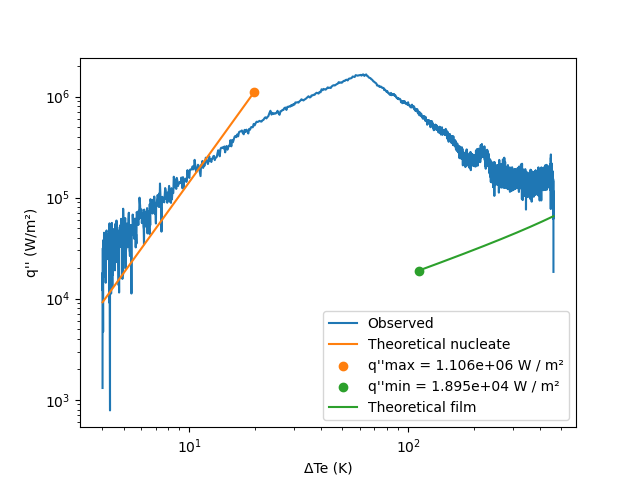
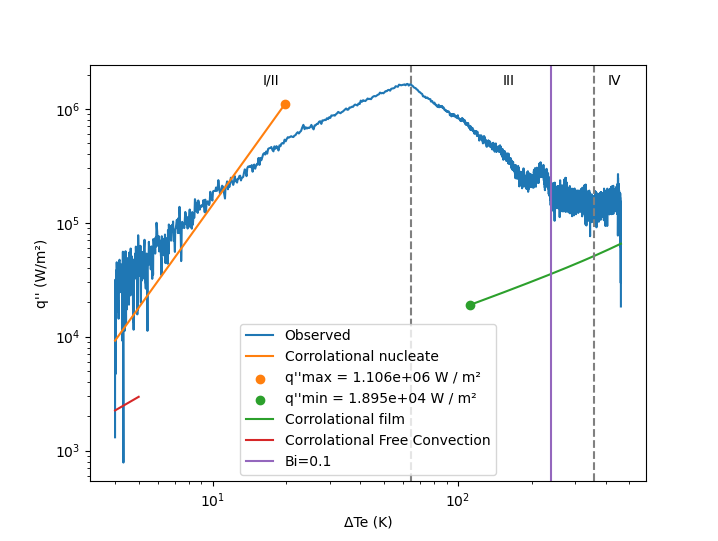
updated figures; discussion, conclusion

diff --git a/lr1/main.tex b/lr1/main.tex
@@ -22,6 +22,7 @@ T.A.: Sohaib Malik
 
 \usepackage{placeins} % FloatBarrier
 \usepackage{amsmath} % align
+\usepackage{amssymb}
 \usepackage{xcolor}
 \usepackage[colorlinks=true, citecolor=violet, linkcolor=violet, urlcolor=violet]{hyperref}
 \usepackage{enumitem}
@@ -187,7 +188,7 @@ Of the behavioral regions in \figref{boil_curve}, free convection, nucleate boil
 \newcommand{\Te}{\Delta T_e}
 % Free convection
 \subsubsection{Free Convection}
-For low temperatures (\~$\Te \lesssim 5$~K), while boiling may occur, convection into the fluid remains dominated by buoyancy forces, and can be modeled as free convection.
+For low temperatures ($\Te \lesssim 5$~K), while boiling may occur, convection into the fluid remains dominated by buoyancy forces, and can be modeled as free convection.
 For a sphere submerged in water, this takes the form\cite{bergman_fundamentals_2017}:
 \begin{equation}
     \begin{gathered}
@@ -266,6 +267,8 @@ Using a digitizer and a laptop, the temperature was measured at precise interval
 \FloatBarrier
 The sphere was successfully superheated and dropped into the water at an initial temperature of 562\degC (for an initial $\Delta T_e=462~K$), and time and temperature data recorded every 0.02~s for 114.78~s, reaching a final temperature of 104.01\degC.
 Using Eq.~\ref{eq:q_experimental} and necessary assumptions, we calculated the heat flux $q''_s$ across the sphere surface for each timestamp, and plot against corresponding $\Delta T_e$ in \figref{exp_curve}, comparing to correlations found using Eqs.~\ref{eq:free_boil} through \ref{eq:film_boil}.
+We identify regions I, II, III, and IV on the plot, which we believe correspond to free convection, nucleate boiling, transitional boiling, and film boiling, grouping expected regions I and II as while both may be observed a clear distinction between the two was not obvious.\\
+
 We then evaluated $h$ and $Bi$ using Eqs.~\ref{eq:h_experimental} and \ref{eq:biot_sphere} for the sphere, and plot $Bi$ using experimental data in \figref{biot_curve}
 % Pool boiling curve
 \defplot{exp_curve}{The boiling curve found using experimental data with the lumped capacitance approximation. At temperatures higher than 240~K (labeled ``$Bi=0.1$''), the Biot number of the system was found to be self-consistently less than 0.1, as required in the lumped capacitance approximation.}
@@ -273,18 +276,28 @@ We then evaluated $h$ and $Bi$ using Eqs.~\ref{eq:h_experimental} and \ref{eq:bi
 % "Using the equations, we find this data"
 
 \clearpage
+\FloatBarrier
 \section{Discussion}\label{sec:disc}
-Qualitatively, the boiling curve derived in \figref{exp_curve} shares similarity to existing models like in \figref{boil_curve}, featuring a rapid increase in $q''_s$ with $\Te$ at low $\Te$, until a maximum $q''_s\approx10^6 W/m^2$ beyond which higher temperatures correlate to lower $q''_s$.
-However, the models of Eq.~\ref{eq:free_boil} through \ref{eq:film_boil}, despite featuring similar shapes (and plotted on the same \figref{exp_curve}), do not line up with our interpretation of experimental data.\\
+Qualitatively, the boiling curve derived in \figref{exp_curve} shares similarity to existing models like in \figref{boil_curve}, featuring a rapid increase in $q''_s$ with $\Te$ at low $\Te$, until a maximum $q''_s\approx10^6 W/m^2$ (comparable to the Zuber models in Eq.~\ref{eq:qmax}) beyond which higher temperatures correlate to lower $q''_s$ (Regions I and II, corresponding to free convection and nucleate boiling, are grouped together as we do not observe a clear distinction between the two as expected from \figref{boil_curve}).
+However, the models of Eq.~\ref{eq:free_boil} through \ref{eq:film_boil}, despite featuring similar shapes (and plotted on the same \figref{exp_curve}), do not line up with our interpretation of experimental data, notably predicting behavior over very different ranges of temperature (for both nucleate boiling and film boiling).\\
 
 When validating the assumptions of our model, we encounter a plausible explanation for this discrepancy: the sphere is not conductive enough to assume lumped capacitance over the full range of observations.
 In \figref{biot_curve}, we compare the Biot number under the assumptions of the model to the maximum $Bi<0.1$ permitting a lumped capacitance approximation, and find that our assumption of lumped capacitance is only self-consistent for the most extreme temperatures, in excess of $\Te\gtrsim 240~K$.
 This inaccuracy very plausibly explains the discrepancies: While the temperature corresponding to $q''_s$ across different regions should be evaluated at the surface, if the Biot number is too high then our thermocouple measurements towards the center of the sphere do not accurately reflect the surface temperature $T_s$ to calculate $\Te=T_s-T_{sat}$.
-The thermocouple temperature would instead be substantially higher than $T_s$, potentially explaining, for example, the higher temperature of $q''_{max}$ seen in \figref{exp_curve}, compared with that found using Eq.~\ref{eq:nucl_boil}.\\
+The thermocouple temperature would instead be substantially higher than $T_s$, potentially explaining, for example, the higher temperatures of $q''_{max}$ and $\qmin$ seen in \figref{exp_curve}, compared with those found using Eqs.~\ref{eq:qmax} and \ref{eq:qmin}.\\
 
-Additionally, while there is a plateau in $q''_s$ as expected, it remains substantially higher than the expected $\qmin\approx 19kW/m^2$ found using Eq.~\ref{eq:qmin}
+Additionally, while there is a plateau in $q''_s$ as expected from the Zuber models, it remains substantially higher than the expected $\qmin\approx 19kW/m^2$ found using Eq.~\ref{eq:qmin}
 \clearpage
 \section{Conclusions}\label{sec:conc}
+The experiment was of qualified success.
+Pool boiling was successfully observed of a copper sphere in saturated water across a wide range of excess heat (with thermocouple temperatures ranging from 104\degC to 562\degC).\\
+
+Using a lumped capacitance approximation of the sphere, we observe a boiling curve qualitatively similar to established models, and with a critical heat flux $q''_{max}$ on the order of $10^6~\mathrm{\frac{W}{m^2}}$.
+However, the curve, particularly with regard to temperature, lacks numeric correspondence with models of free convection, nucleate boiling, or film boiling, and the model produces Biot numbers well in excess of 0.1 for all temperatures lower than 340\degC, confirming the invalidity of the model for the data produced in this experiment.\\
+
+Further experiments may improve upon these results, primarily through seeking a more accurate model of experimental properties.
+This might be accomplished either by using a more conductive material (though this may be impractical, as copper is a very conductive material) or a surface interface which provides substantial resistance to convection while still being modellable (which may also be impractical, as it could limit observation of $q''_{max}$ and transition/film boiling).
+Another route of improvement would be to construct a copper sphere with thermocouple measurements closer to the system, to impose temperature similarity requirements over shorter distances than the entire sphere, combined with a model less simplifying than lumped capacitance to estimate the thermal energy leaving the sphere (i.e., without assuming the entire sphere is of uniform temperature).
 \clearpage
 \printbibliography
 \clearpage

diff --git a/lr1/plots.py b/lr1/plots.py
@@ -105,7 +105,7 @@ qii_nuc = mu_l * h_fg * np.sqrt(g*(rho_l-rho_v)/sigma) * ((cp_l * (T-T_SAT) / (C
 # Max boiling, eq. 10.6
 C = PI / 24 # Zuber constant 
 qii_max = C * h_fg * rho_v * (sigma * g  * (rho_l - rho_v) / (rho_v**2))**0.25
-# T_max = T[qii.argmax()]
+
 i_max = qii.argmax()
 i_crit = abs(qii_nuc - qii_max).argmin()
 # T_nuc = np.linspace
@@ -145,16 +145,19 @@ print(f"Te of 120: {qii_min:.3f} vs {get_qii_film(100+120)}")
 fig, ax1 = plt.subplots()
 
 
+T_max = T[qii.argmax()]
+T_min = 360+T_SAT
+
 
 
 ax1.plot(T-T_SAT, qii, label="Observed")
-ax1.plot(T[i_crit:]-T_SAT, qii_nuc[i_crit:], label="Theoretical nucleate")
+ax1.plot(T[i_crit:]-T_SAT, qii_nuc[i_crit:], label="Corrolational nucleate")
 # hline(qii_max, "Maximum Convection", x=[10,40])
 ax1.scatter(T[i_crit]-T_SAT, qii_max, label=f"q''max = {qii_max:.3e} W / m²", c="C1")
 # hline(qii_min, "Minimum Convection", x=[100,140])
 ax1.scatter(T[i_crit2]-T_SAT, qii_min, label=f"q''min = {qii_min:.3e} W / m²", c="C2")
-ax1.plot(T[:i_crit2]-T_SAT, qii_film[:i_crit2], label="Theoretical film")
-ax1.plot(T_free-T_SAT, qii_free, label="Theoretical Free Convection")
+ax1.plot(T[:i_crit2]-T_SAT, qii_film[:i_crit2], label="Corrolational film")
+ax1.plot(T_free-T_SAT, qii_free, label="Corrolational Free Convection")
 ax1.set_xlabel("ΔTe (K)")
 ax1.set_ylabel("q'' (W/m²)")
 
@@ -162,8 +165,17 @@ ax1.set_ylabel("q'' (W/m²)")
 ax1.loglog()
 
 qmin, qmax = ax1.get_ylim()
+
+def vbar(Te, ax, label):
+    ax.plot([Te, Te], [qmin, qmax], label=label, c="gray", linestyle="dashed")
 Te_valid = 240
 ax1.plot([Te_valid, Te_valid], [qmin, qmax], label="Bi=0.1")
+vbar((T_max-T_SAT), ax1, None)
+shift = 1.5
+ax1.text(np.sqrt((T_max-T_SAT)*min(T-T_SAT)), qmax/shift, "I/II")
+vbar(T_min-T_SAT, ax1, None)
+ax1.text(np.sqrt((T_max-T_SAT)*(T_min-T_SAT)), qmax/shift, "III")
+ax1.text(np.sqrt((T_min-T_SAT)*(max(T)-T_SAT)), qmax/shift, "IV")
 ax1.set_ylim(qmin, qmax)
 
 
